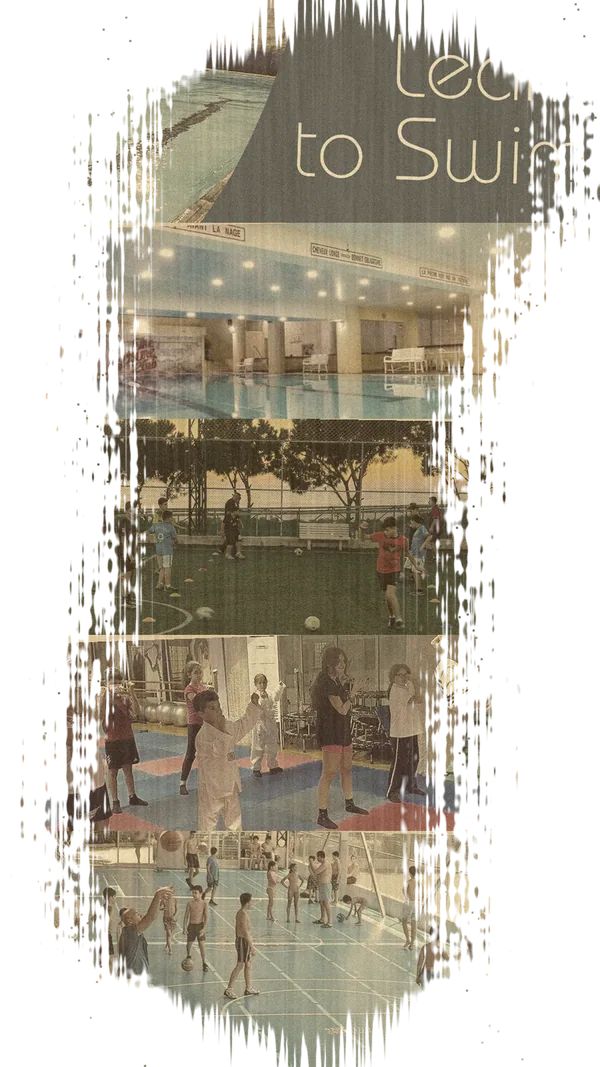
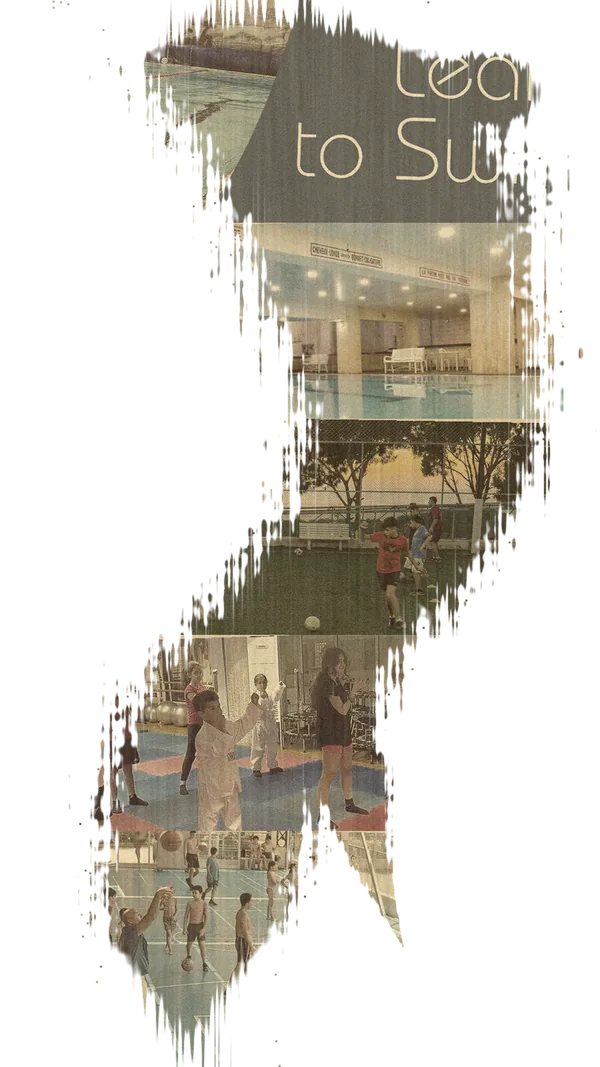
Our Story: a winding brush stroke that paints itself as you scroll
The photo collage behind the timeline is now a more original stroke: a
winding S-curve, thick at the top with a flick of paint, narrowing to a
ragged tail, with a thinner offshoot. It starts empty and paints itself
downward as you read through the years, finishing at the last one, and
stops cleanly with the end of the timeline. Fully shown for Still motion.

Changed region(s): [[0.03, 0.0, 1.0, 1.0]]

diff --git a/assets/v2.css b/assets/v2.css
@@ -806,13 +806,18 @@ html[data-motion="still"] .planner__card.is-bump { animation: none; }
 
 /* ---------- Our Story: behind the timeline text, a vertical brush stroke of old club photos ---------- */
 .legacy__right { position: relative; }
+.legacy__track { position: absolute; inset: 0; z-index: 0; pointer-events: none; }
 .legacy__right > .legacy__list { position: relative; z-index: 1; }
 .legacy__brush {
   position: sticky; z-index: 0; top: calc(var(--header-h, 84px) + 30px);
-  height: calc(100vh - var(--header-h, 84px) - 60px); margin-block-end: calc(-100vh + var(--header-h, 84px) + 60px);
+  height: min(calc(100vh - var(--header-h, 84px) - 60px), 100%);
   background: image-set(url("../images/site/story-brush-600.webp") 1x, url("../images/site/story-brush-900.webp") 2x) right center / contain no-repeat;
-  opacity: .5; pointer-events: none;
+  opacity: .55; pointer-events: none;
+  --paint: 0;
+  -webkit-mask-image: linear-gradient(to bottom, #000 0, #000 calc(var(--paint) * 100%), transparent calc(var(--paint) * 100% + 9%));
+          mask-image: linear-gradient(to bottom, #000 0, #000 calc(var(--paint) * 100%), transparent calc(var(--paint) * 100% + 9%));
 }
+html[data-motion="still"] .legacy__brush { --paint: 1.2 !important; }
 @media (max-width: 899px) { .legacy__brush { opacity: .28; background-position: center; } }
 
 /* ---------- Hospitality & Events: occasion panels, slanted the other way from Community ---------- */

diff --git a/assets/pages.js b/assets/pages.js
@@ -82,6 +82,21 @@
     update();
   }
 
+  // ---------- Our Story: the brush stroke paints itself down as you read the timeline ----------
+  var brush = document.querySelector(".legacy__brush");
+  if (brush) {
+    var right = brush.closest(".legacy__right"), bt = false;
+    function paint() {
+      bt = false;
+      var r = right.getBoundingClientRect(), vh = window.innerHeight;
+      var p = (vh * 0.75 - r.top) / Math.max(1, r.height - vh * 0.35);
+      brush.style.setProperty("--paint", Math.max(0, Math.min(1.12, p)).toFixed(3));
+    }
+    window.addEventListener("scroll", function () { if (!bt) { bt = true; requestAnimationFrame(paint); } }, { passive: true });
+    window.addEventListener("resize", paint);
+    paint();
+  }
+
   // ---------- Aquatics: each section's big number rises as it arrives ----------
   var numbered = document.querySelectorAll("section[data-num]");
   if (numbered.length) {

diff --git a/_build/pages/our-story.html b/_build/pages/our-story.html
@@ -55,7 +55,7 @@ scripts: assets/lang/club.js, assets/lang/story.js
         <div class="legacy">
           <div class="legacy__year" aria-hidden="true"><b data-legacy-year>1991</b><span data-i18n="st.since">The Leisure Club</span></div>
           <div class="legacy__right">
-            <div class="legacy__brush" aria-hidden="true"></div>
+            <div class="legacy__track" aria-hidden="true"><div class="legacy__brush"></div></div>
             <ol class="legacy__list" role="list">
             <li class="era" id="y1991" data-year="1991">
               <span class="era__year">1991</span>

diff --git a/our-story.html b/our-story.html
@@ -169,7 +169,7 @@
         <div class="legacy">
           <div class="legacy__year" aria-hidden="true"><b data-legacy-year>1991</b><span data-i18n="st.since">The Leisure Club</span></div>
           <div class="legacy__right">
-            <div class="legacy__brush" aria-hidden="true"></div>
+            <div class="legacy__track" aria-hidden="true"><div class="legacy__brush"></div></div>
             <ol class="legacy__list" role="list">
             <li class="era" id="y1991" data-year="1991">
               <span class="era__year">1991</span>
